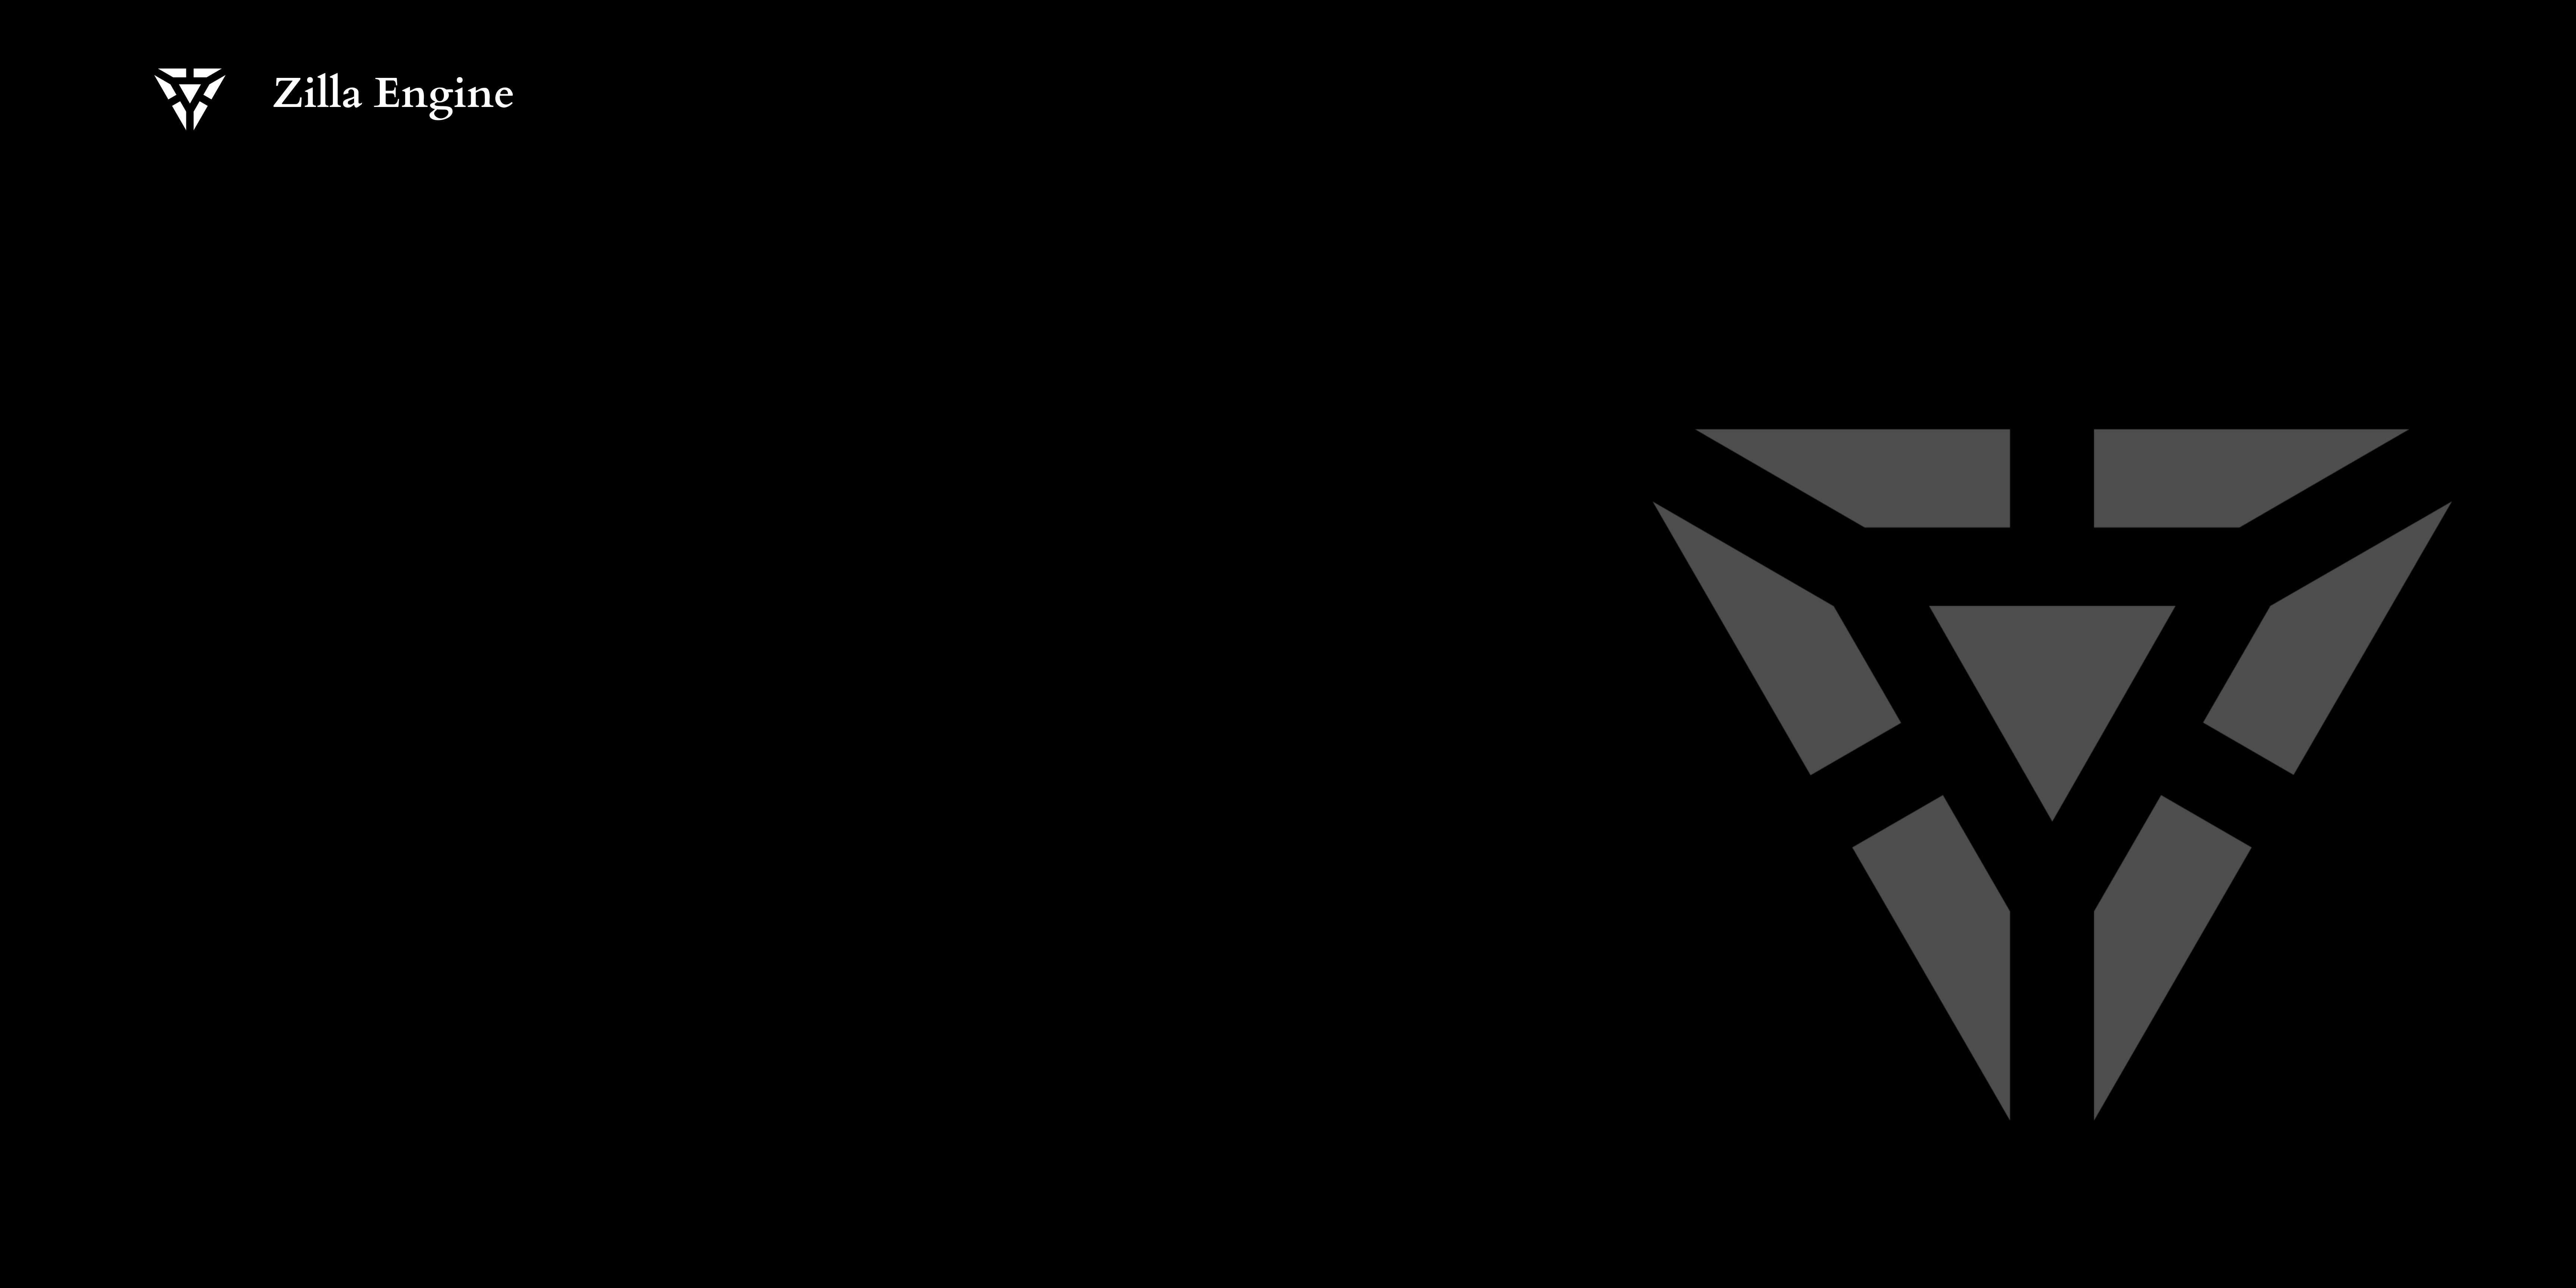
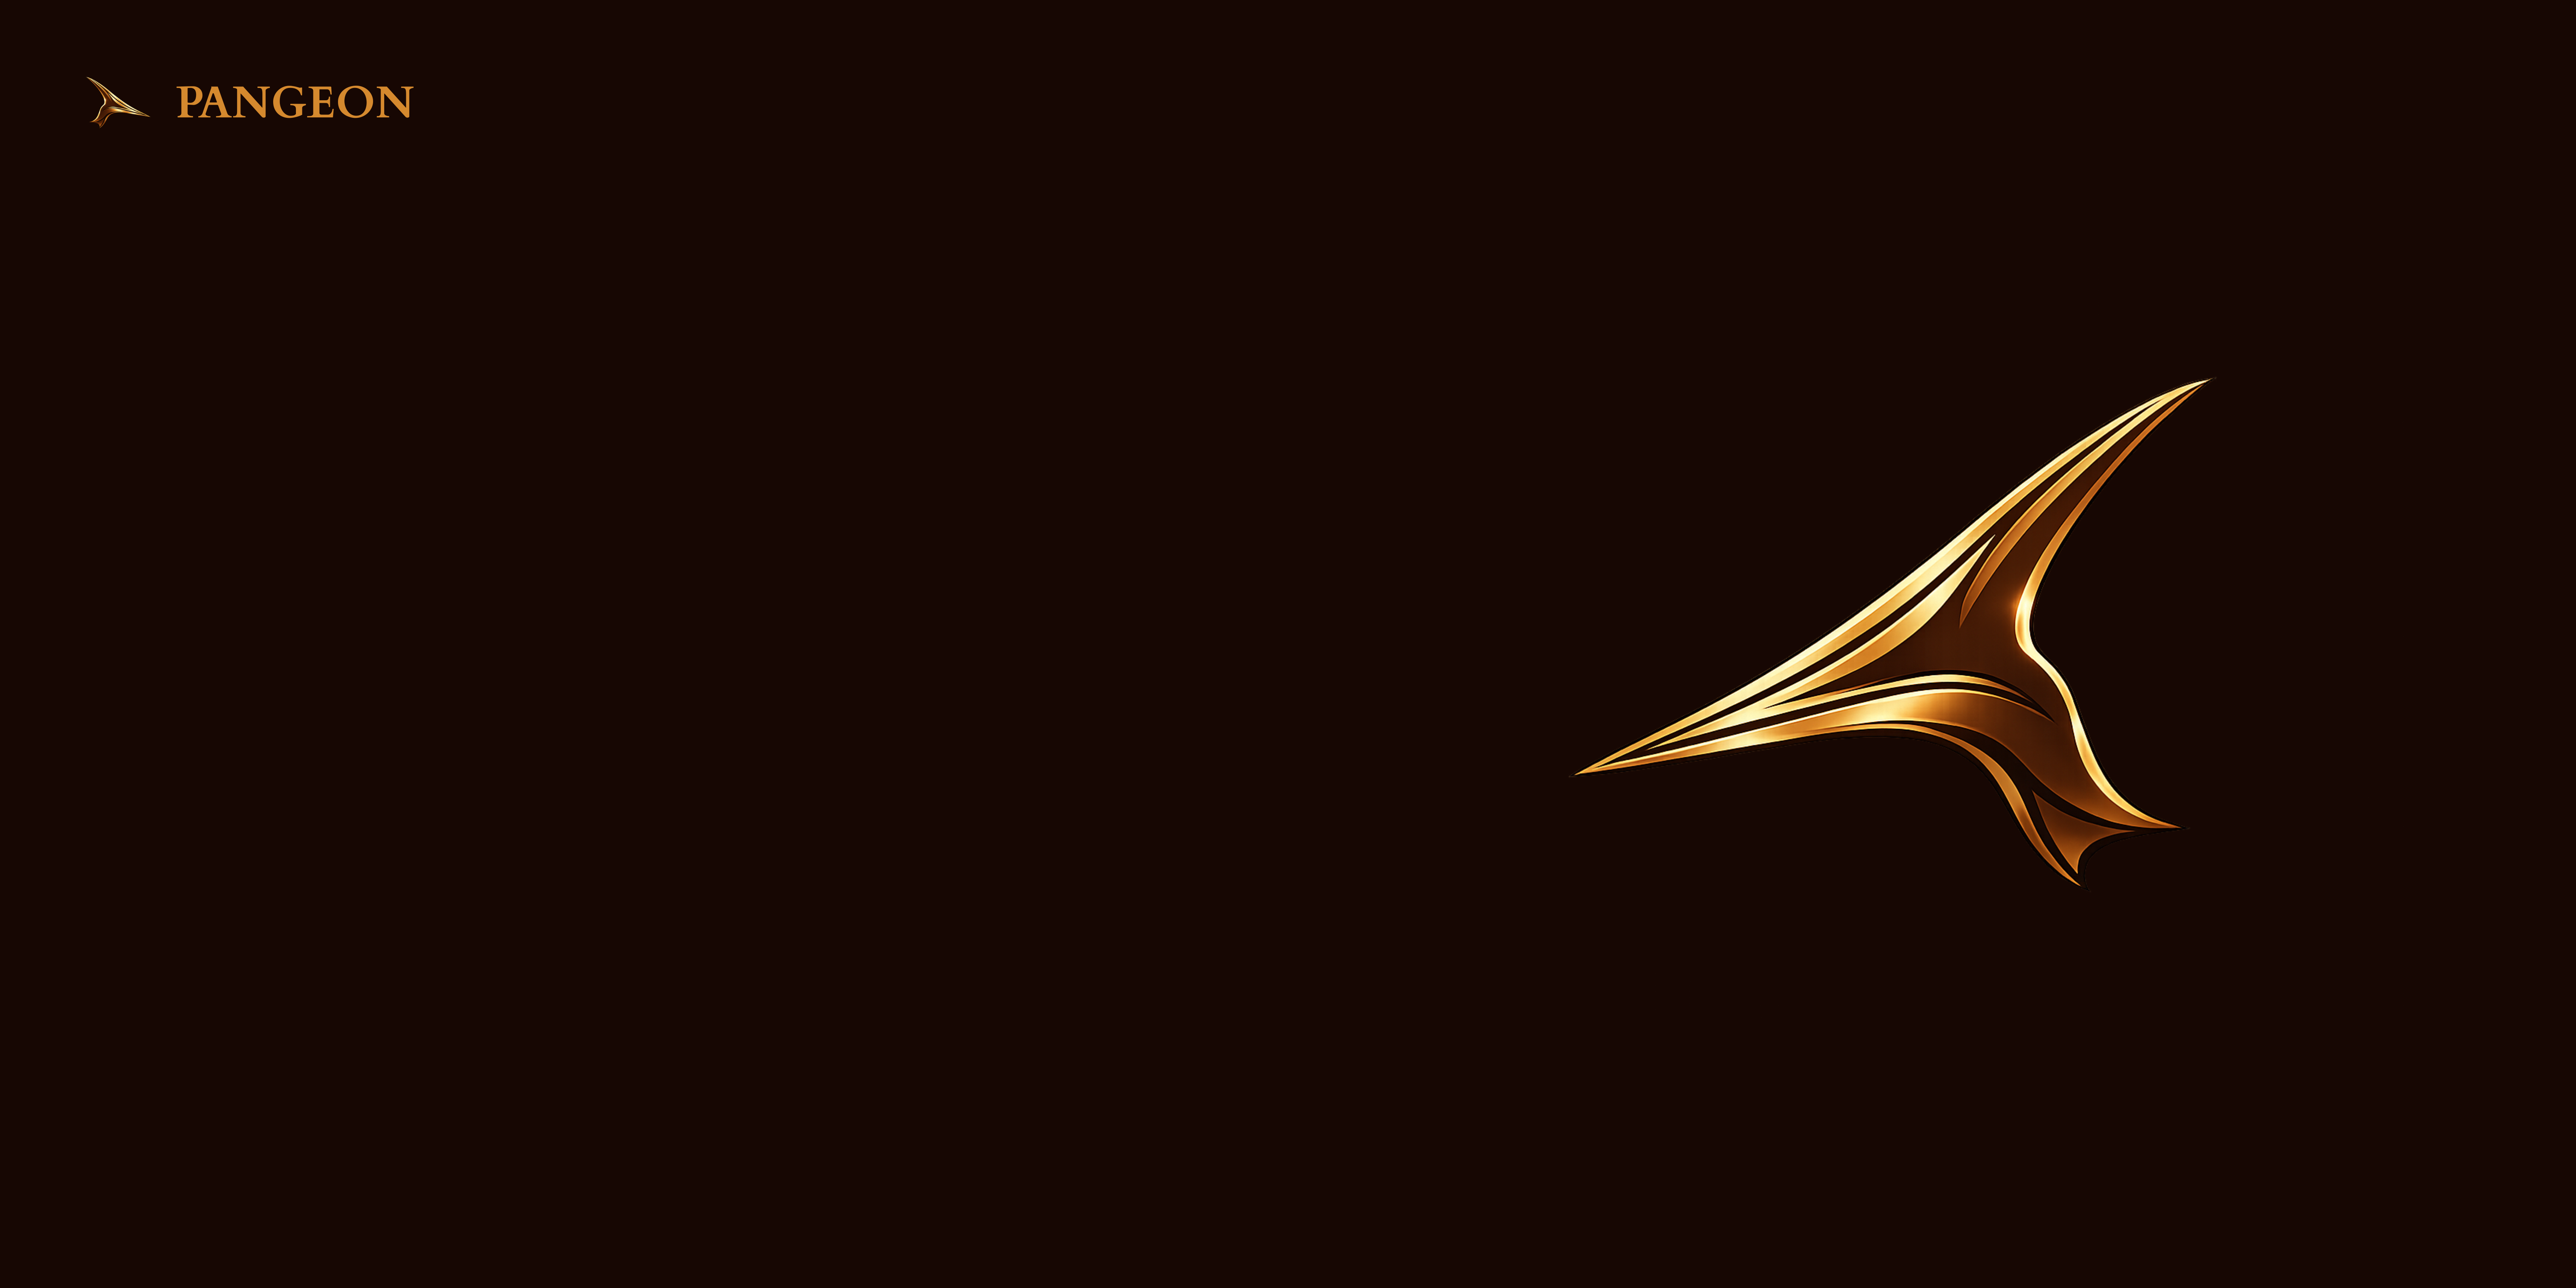
update

Changed region(s): [[0.625, 0.2812, 0.9688, 0.875], [0.0312, 0.0312, 0.1875, 0.0938]]

diff --git a/app/page.jsx b/app/page.jsx
@@ -13,6 +13,11 @@ const TRADE_IMAGES = [
   { file: "hypetrade.jpg", token: "HYPE" },
 ];
 
+const STARS = Array.from({ length: 50 }, (_, i) => ({
+  id: i, top: `${(i * 37 + 11) % 100}%`, left: `${(i * 53 + 7) % 100}%`,
+  size: i % 4 === 0 ? 2 : 1, opacity: ((i * 17 + 3) % 6) * 0.04 + 0.04,
+}));
+
 function TradeCarousel() {
   const [current, setCurrent] = useState(0);
   const [isPaused, setIsPaused] = useState(false);
@@ -55,11 +60,11 @@ function TradeCarousel() {
         {TRADE_IMAGES.map((t, i) => {
           const style = getStyle(i);
           return (
-            <div key={i} onClick={() => setCurrent(i)} style={{ position: "absolute", left: "50%", top: 0, width: cardW, height: cardH, marginLeft: -cardW/2, borderRadius: 16, overflow: "hidden", border: i === current ? "1px solid rgba(255,255,255,0.3)" : "1px solid rgba(255,255,255,0.07)", cursor: i === current ? "default" : "pointer", transition: "all 0.5s cubic-bezier(0.25, 0.46, 0.45, 0.94)", boxShadow: i === current ? "0 24px 80px rgba(0,0,0,0.8)" : "none", ...style }}>
+            <div key={i} onClick={() => setCurrent(i)} style={{ position: "absolute", left: "50%", top: 0, width: cardW, height: cardH, marginLeft: -cardW/2, borderRadius: 16, overflow: "hidden", border: i === current ? "1px solid rgba(255,255,255,0.25)" : "1px solid rgba(255,255,255,0.07)", cursor: i === current ? "default" : "pointer", transition: "all 0.5s cubic-bezier(0.25, 0.46, 0.45, 0.94)", boxShadow: i === current ? "0 24px 80px rgba(0,0,0,0.8)" : "none", ...style }}>
               <img src={`/${t.file}`} alt={t.token} style={{ width: "100%", height: "100%", objectFit: "cover", display: "block" }} />
               {i === current && (
                 <div style={{ position: "absolute", bottom: 0, left: 0, right: 0, padding: "12px 16px", background: "linear-gradient(transparent, rgba(0,0,0,0.85))", display: "flex", alignItems: "center", justifyContent: "space-between" }}>
-                  <span style={{ fontFamily: "'JetBrains Mono', monospace", fontSize: isMobile ? 12 : 14, fontWeight: 600, color: "#fff" }}>{t.token}</span>
+                  <span style={{ fontFamily: "'Space Mono', monospace", fontSize: isMobile ? 12 : 14, fontWeight: 600, color: "#fff" }}>{t.token}</span>
                   <span style={{ fontSize: 10, color: "rgba(255,255,255,0.4)", letterSpacing: "1px" }}>LIVE TRADE</span>
                 </div>
               )}
@@ -67,8 +72,8 @@ function TradeCarousel() {
           );
         })}
       </div>
-      <button onClick={prev} style={{ position: "absolute", left: 8, top: "50%", transform: "translateY(-50%)", width: 36, height: 36, borderRadius: "50%", border: "1px solid rgba(255,255,255,0.15)", background: "rgba(0,0,0,0.6)", color: "#fff", fontSize: 14, cursor: "pointer", zIndex: 20, display: "flex", alignItems: "center", justifyContent: "center", backdropFilter: "blur(10px)" }}>←</button>
-      <button onClick={next} style={{ position: "absolute", right: 8, top: "50%", transform: "translateY(-50%)", width: 36, height: 36, borderRadius: "50%", border: "1px solid rgba(255,255,255,0.15)", background: "rgba(0,0,0,0.6)", color: "#fff", fontSize: 14, cursor: "pointer", zIndex: 20, display: "flex", alignItems: "center", justifyContent: "center", backdropFilter: "blur(10px)" }}>→</button>
+      <button onClick={prev} style={{ position: "absolute", left: 8, top: "50%", transform: "translateY(-50%)", width: 36, height: 36, borderRadius: "50%", border: "1px solid rgba(255,255,255,0.12)", background: "rgba(0,0,0,0.6)", color: "#fff", fontSize: 14, cursor: "pointer", zIndex: 20, display: "flex", alignItems: "center", justifyContent: "center", backdropFilter: "blur(10px)" }}>←</button>
+      <button onClick={next} style={{ position: "absolute", right: 8, top: "50%", transform: "translateY(-50%)", width: 36, height: 36, borderRadius: "50%", border: "1px solid rgba(255,255,255,0.12)", background: "rgba(0,0,0,0.6)", color: "#fff", fontSize: 14, cursor: "pointer", zIndex: 20, display: "flex", alignItems: "center", justifyContent: "center", backdropFilter: "blur(10px)" }}>→</button>
       <div style={{ position: "absolute", bottom: -20, left: "50%", transform: "translateX(-50%)", display: "flex", gap: 6 }}>
         {TRADE_IMAGES.map((_, i) => (
           <div key={i} onClick={() => setCurrent(i)} style={{ width: i === current ? 16 : 5, height: 5, borderRadius: 3, background: i === current ? "#fff" : "rgba(255,255,255,0.2)", cursor: "pointer", transition: "all 0.3s" }} />
@@ -91,38 +96,34 @@ function PerfCard({ token, templateImg, logo, avgEntry, deployed, currentPrice }
         <div style={{ position: "absolute", top: "28%", left: "7%" }}>
           <div style={{ display: "flex", alignItems: "center", gap: 10, marginBottom: 6 }}>
             <img src={logo} width={28} height={28} style={{ borderRadius: "50%" }} alt={token} />
-            <div style={{ fontFamily: "'Bebas Neue', sans-serif", fontSize: "clamp(13px, 2vw, 17px)", color: "#fff", letterSpacing: 1, lineHeight: 1 }}>
+            <div style={{ fontFamily: "'Space Mono', monospace", fontSize: "clamp(11px, 1.8vw, 15px)", color: "#fff", letterSpacing: 1, lineHeight: 1 }}>
               {amount.toFixed(3)} <span style={{ opacity: 0.6 }}>${token}</span> accumulated
             </div>
           </div>
         </div>
         <div style={{ position: "absolute", top: "45%", left: "7%" }}>
-          <div style={{ fontFamily: "'Bebas Neue', sans-serif", fontSize: "clamp(28px, 5vw, 48px)", color: isPos ? "#4ade80" : "#f87171", letterSpacing: 1, lineHeight: 1 }}>
+          <div style={{ fontFamily: "'Cinzel', serif", fontSize: "clamp(28px, 5vw, 48px)", color: isPos ? "#4ade80" : "#f87171", letterSpacing: 1, lineHeight: 1 }}>
             {isPos ? "+" : ""}{pnlPct.toFixed(1)}%
           </div>
         </div>
         <div style={{ position: "absolute", bottom: "12%", left: "7%", display: "flex", gap: "clamp(16px, 4vw, 40px)" }}>
-          <div>
-            <div style={{ fontSize: "clamp(9px, 1.5vw, 11px)", color: "rgba(255,255,255,0.4)", textTransform: "uppercase", letterSpacing: "0.5px", marginBottom: 4 }}>Avg Entry</div>
-            <div style={{ fontFamily: "'JetBrains Mono', monospace", fontSize: "clamp(12px, 2vw, 16px)", fontWeight: 600, color: "#fff" }}>${avgEntry.toLocaleString()}</div>
-          </div>
-          <div>
-            <div style={{ fontSize: "clamp(9px, 1.5vw, 11px)", color: "rgba(255,255,255,0.4)", textTransform: "uppercase", letterSpacing: "0.5px", marginBottom: 4 }}>Current</div>
-            <div style={{ fontFamily: "'JetBrains Mono', monospace", fontSize: "clamp(12px, 2vw, 16px)", fontWeight: 600, color: "#fff" }}>${currentPrice?.toLocaleString() || "—"}</div>
-          </div>
-          <div>
-            <div style={{ fontSize: "clamp(9px, 1.5vw, 11px)", color: "rgba(255,255,255,0.4)", textTransform: "uppercase", letterSpacing: "0.5px", marginBottom: 4 }}>PnL</div>
-            <div style={{ fontFamily: "'JetBrains Mono', monospace", fontSize: "clamp(12px, 2vw, 16px)", fontWeight: 600, color: isPos ? "#4ade80" : "#f87171" }}>
-              {isPos ? "+" : ""}${pnlUsd.toFixed(0)}
+          {[
+            { label: "Avg Entry", val: `$${avgEntry.toLocaleString()}` },
+            { label: "Current",   val: `$${currentPrice?.toLocaleString() || "—"}` },
+            { label: "PnL",       val: `${isPos ? "+" : ""}$${pnlUsd.toFixed(0)}`, color: isPos ? "#4ade80" : "#f87171" },
+          ].map((s, i) => (
+            <div key={i}>
+              <div style={{ fontSize: "clamp(9px, 1.5vw, 11px)", color: "rgba(255,255,255,0.4)", textTransform: "uppercase", letterSpacing: "0.5px", marginBottom: 4 }}>{s.label}</div>
+              <div style={{ fontFamily: "'Space Mono', monospace", fontSize: "clamp(12px, 2vw, 16px)", fontWeight: 600, color: s.color || "#fff" }}>{s.val}</div>
             </div>
-          </div>
+          ))}
         </div>
       </div>
     </div>
   );
 }
 
-export default function LandingPage() {
+export default function DjuneFrostPage() {
   const [solPrice, setSolPrice] = useState(null);
   const [hypePrice, setHypePrice] = useState(null);
   const [btcPrice, setBtcPrice] = useState(null);
@@ -151,71 +152,81 @@ export default function LandingPage() {
   return (
     <>
       <style>{`
-        @import url('https://fonts.googleapis.com/css2?family=Bebas+Neue&family=DM+Sans:wght@300;400;500;600&family=JetBrains+Mono:wght@400;600&display=swap');
+        @import url('https://fonts.googleapis.com/css2?family=Cinzel:wght@400;600;700;900&family=DM+Sans:wght@300;400;500;600&family=Space+Mono:wght@400;700&display=swap');
         *, *::before, *::after { box-sizing: border-box; margin: 0; padding: 0; }
-        body { background: #080808; color: #fff; font-family: 'DM Sans', sans-serif; overflow-x: hidden; }
-        ::-webkit-scrollbar { width: 4px; } ::-webkit-scrollbar-track { background: #080808; } ::-webkit-scrollbar-thumb { background: #222; }
-        .ze-nav { position: fixed; top: 0; left: 0; right: 0; z-index: 100; display: flex; align-items: center; justify-content: space-between; padding: 0 48px; height: 64px; background: rgba(8,8,8,0.9); backdrop-filter: blur(20px); border-bottom: 1px solid rgba(255,255,255,0.06); }
-        .ze-logo { font-family: 'Bebas Neue', sans-serif; font-size: 22px; letter-spacing: 3px; color: #fff; text-decoration: none; }
-        .ze-logo span { color: rgba(255,255,255,0.35); }
+        body { background: #181510; color: #fff; font-family: 'DM Sans', sans-serif; overflow-x: hidden; }
+        ::-webkit-scrollbar { width: 4px; }
+        ::-webkit-scrollbar-track { background: #181510; }
+        ::-webkit-scrollbar-thumb { background: rgba(255,255,255,0.15); border-radius: 2px; }
+
+        .nav { position: fixed; top: 0; left: 0; right: 0; z-index: 100; display: flex; align-items: center; justify-content: space-between; padding: 0 48px; height: 64px; background: rgba(24,21,16,0.92); backdrop-filter: blur(24px); border-bottom: 1px solid rgba(255,255,255,0.06); }
+        .nav-logo { font-family: 'Cinzel', serif; font-size: 18px; font-weight: 700; color: #fff; text-decoration: none; letter-spacing: 2px; }
+        .nav-logo span { color: rgba(255,255,255,0.3); }
+
         .hero { min-height: 100vh; display: flex; flex-direction: column; align-items: center; justify-content: center; padding: 120px 24px 80px; text-align: center; position: relative; overflow: hidden; }
-        .hero-grid { position: absolute; inset: 0; background-image: linear-gradient(rgba(255,255,255,0.025) 1px, transparent 1px), linear-gradient(90deg, rgba(255,255,255,0.025) 1px, transparent 1px); background-size: 60px 60px; mask-image: radial-gradient(ellipse 80% 80% at 50% 50%, black 40%, transparent 100%); }
-        .hero-badge { display: inline-flex; align-items: center; gap: 8px; padding: 6px 14px; border-radius: 20px; border: 1px solid rgba(255,255,255,0.12); background: rgba(255,255,255,0.04); font-size: 12px; color: rgba(255,255,255,0.5); letter-spacing: 0.5px; margin-bottom: 32px; }
-        .hero-badge-dot { width: 6px; height: 6px; border-radius: 50%; background: #fff; animation: blink 2s infinite; }
-        @keyframes blink { 0%,100%{opacity:1} 50%{opacity:0.2} }
-        .hero-title { font-family: 'Bebas Neue', sans-serif; font-size: clamp(72px, 12vw, 160px); line-height: 0.9; letter-spacing: -2px; margin-bottom: 28px; }
-        .hero-title .outline { -webkit-text-stroke: 1.5px rgba(255,255,255,0.7); color: transparent; }
-        .hero-sub { font-size: clamp(15px, 2vw, 18px); color: rgba(255,255,255,0.4); max-width: 520px; line-height: 1.7; margin-bottom: 48px; font-weight: 400; }
-        .ticker { display: flex; gap: 16px; justify-content: center; flex-wrap: wrap; }
-        .ticker-item { display: flex; align-items: center; gap: 10px; padding: 10px 18px; border-radius: 10px; border: 1px solid rgba(255,255,255,0.07); background: rgba(255,255,255,0.03); }
-        .ticker-sym { font-family: 'JetBrains Mono', monospace; font-size: 13px; font-weight: 600; color: #fff; }
-        .ticker-price { font-family: 'JetBrains Mono', monospace; font-size: 13px; color: rgba(255,255,255,0.5); }
+        .hero-grid { position: absolute; inset: 0; background-image: linear-gradient(rgba(255,255,255,0.02) 1px, transparent 1px), linear-gradient(90deg, rgba(255,255,255,0.02) 1px, transparent 1px); background-size: 60px 60px; mask-image: radial-gradient(ellipse 80% 80% at 50% 50%, black 40%, transparent 100%); }
+
+        .hero-badge { display: inline-flex; align-items: center; gap: 8px; padding: 6px 14px; border-radius: 20px; border: 1px solid rgba(255,255,255,0.1); background: rgba(255,255,255,0.04); font-size: 12px; color: rgba(255,255,255,0.45); letter-spacing: 0.5px; margin-bottom: 32px; font-family: 'Space Mono', monospace; text-transform: uppercase; }
+        .hero-badge-dot { width: 6px; height: 6px; border-radius: 50%; background: #14F195; box-shadow: 0 0 8px #14F195; animation: blink 2s infinite; }
+        @keyframes blink { 0%,100%{opacity:1} 50%{opacity:0.3} }
+
+        .hero-title { font-family: 'Cinzel', serif; font-size: clamp(60px, 10vw, 130px); line-height: 0.95; letter-spacing: -2px; margin-bottom: 28px; font-weight: 900; }
+        .hero-title .outline { -webkit-text-stroke: 1.5px rgba(255,255,255,0.25); color: transparent; }
+
+        .hero-sub { font-size: clamp(15px, 2vw, 18px); color: rgba(255,255,255,0.35); max-width: 520px; line-height: 1.7; margin-bottom: 48px; font-weight: 300; }
+
+        .ticker { display: flex; gap: 10px; justify-content: center; flex-wrap: wrap; }
+        .ticker-item { display: flex; align-items: center; gap: 10px; padding: 9px 16px; border-radius: 10px; border: 1px solid rgba(255,255,255,0.07); background: rgba(255,255,255,0.03); }
+        .ticker-sym { font-family: 'Space Mono', monospace; font-size: 12px; font-weight: 700; color: #fff; }
+        .ticker-price { font-family: 'Space Mono', monospace; font-size: 12px; color: rgba(255,255,255,0.45); }
         .ticker-change { font-size: 11px; font-weight: 600; padding: 2px 7px; border-radius: 6px; }
-        .ticker-change.up { background: rgba(255,255,255,0.08); color: #fff; }
-        .ticker-change.down { background: rgba(255,255,255,0.04); color: rgba(255,255,255,0.4); }
-        .perf-section { padding: 100px 48px 60px; max-width: 1400px; margin: 0 auto; }
-        .perf-cards { display: flex; gap: 20px; }
-        .bot-section { padding: 80px 48px; max-width: 1200px; margin: 0 auto; }
+        .ticker-change.up { background: rgba(74,222,128,0.1); color: #4ade80; }
+        .ticker-change.down { background: rgba(248,113,113,0.1); color: #f87171; }
+
+        .section { padding: 100px 48px; max-width: 1400px; margin: 0 auto; }
+        .section-label { font-family: 'Space Mono', monospace; font-size: 10px; color: rgba(255,255,255,0.22); letter-spacing: 3px; text-transform: uppercase; margin-bottom: 16px; }
+        .section-title { font-family: 'Cinzel', serif; font-size: clamp(40px, 5vw, 72px); letter-spacing: 1px; line-height: 1; margin-bottom: 16px; font-weight: 700; }
+
+        .perf-cards { display: flex; gap: 20px; margin-top: 48px; }
+
         .bot-header { text-align: center; margin-bottom: 72px; }
-        .bot-label { font-size: 11px; color: rgba(255,255,255,0.25); letter-spacing: 3px; text-transform: uppercase; margin-bottom: 16px; }
-        .bot-title { font-family: 'Bebas Neue', sans-serif; font-size: clamp(48px, 6vw, 80px); letter-spacing: 1px; line-height: 1; margin-bottom: 20px; }
-        .bot-badge { display: inline-flex; align-items: center; gap: 8px; padding: 8px 20px; border-radius: 20px; border: 1px solid rgba(255,165,0,0.3); background: rgba(255,165,0,0.06); color: rgba(255,165,0,0.8); font-size: 13px; font-weight: 600; margin-bottom: 20px; }
-        .bot-desc { font-size: 15px; color: rgba(255,255,255,0.35); max-width: 520px; margin: 0 auto; line-height: 1.7; }
-        .coming-soon-banner { margin-top: 72px; padding: 32px; border: 1px dashed rgba(255,165,0,0.2); border-radius: 16px; text-align: center; background: rgba(255,165,0,0.02); }
-        .coming-soon-title { font-family: 'Bebas Neue', sans-serif; font-size: 36px; letter-spacing: 2px; color: rgba(255,165,0,0.7); margin-bottom: 8px; }
-        .coming-soon-desc { font-size: 14px; color: rgba(255,255,255,0.25); }
+        .coming-soon-banner { margin-top: 72px; padding: 32px; border: 1px dashed rgba(255,255,255,0.1); border-radius: 16px; text-align: center; background: rgba(255,255,255,0.02); }
+        .coming-soon-title { font-family: 'Cinzel', serif; font-size: 32px; letter-spacing: 2px; color: rgba(255,255,255,0.4); margin-bottom: 8px; font-weight: 700; }
+        .coming-soon-desc { font-size: 14px; color: rgba(255,255,255,0.22); font-weight: 300; }
+
         .footer { border-top: 1px solid rgba(255,255,255,0.06); padding: 32px 48px; display: flex; align-items: center; justify-content: space-between; }
-        .footer-logo { font-family: 'Bebas Neue', sans-serif; font-size: 18px; letter-spacing: 3px; color: rgba(255,255,255,0.4); }
-        .footer-copy { font-size: 12px; color: rgba(255,255,255,0.2); }
-        .footer-link { font-size: 12px; color: rgba(255,255,255,0.3); text-decoration: none; }
-        .footer-link:hover { color: #fff; }
+
         @media(max-width:768px){
-          .ze-nav { padding: 0 16px; }
+          .nav { padding: 0 16px; }
           .hero { padding: 100px 16px 60px; }
-          .perf-section { padding: 60px 16px; }
+          .section { padding: 60px 16px; }
           .perf-cards { flex-direction: column; }
-          .bot-section { padding: 60px 16px 80px; }
           .footer { flex-direction: column; gap: 16px; text-align: center; padding: 24px 16px; }
         }
       `}</style>
 
+      {/* BG */}
+      <div style={{ position: "fixed", inset: 0, zIndex: 0, background: "#181510", pointerEvents: "none" }}>
+        {STARS.map(s => <div key={s.id} style={{ position: "absolute", width: s.size, height: s.size, background: "#fff", borderRadius: "50%", top: s.top, left: s.left, opacity: s.opacity }} />)}
+      </div>
+
       {/* NAV */}
-      <nav className="ze-nav">
-        <a href="/" className="ze-logo">ZILLA <span>ENGINE</span></a>
-        <div style={{ display: "flex", alignItems: "center", gap: 6, padding: "8px 16px", borderRadius: 12, color: "rgba(255,255,255,0.25)", fontSize: 13, fontWeight: 500, border: "1px solid rgba(255,255,255,0.06)", background: "rgba(255,255,255,0.02)" }}>
-          🔒 Zilla Engine
-        </div>
-        <a href="https://pangeon.xyz" target="_blank" rel="noreferrer" style={{ padding: "8px 20px", borderRadius: 8, background: "#fff", color: "#080808", fontSize: 13, fontWeight: 700, textDecoration: "none" }}>
-          Launch App ↗
+      <nav className="nav" style={{ position: "fixed", zIndex: 100 }}>
+        <a href="/" className="nav-logo">DJUNE <span>FROST</span></a>
+        <a href="https://pangeon.xyz" target="_blank" rel="noreferrer" style={{ padding: "8px 20px", borderRadius: 10, background: "rgba(255,255,255,0.08)", border: "1px solid rgba(255,255,255,0.15)", color: "#fff", fontSize: 13, fontWeight: 700, textDecoration: "none", fontFamily: "'Cinzel', serif", letterSpacing: "0.5px" }}>
+          Launch Pangeon ↗
         </a>
       </nav>
 
       {/* HERO */}
-      <section className="hero">
+      <section className="hero" style={{ position: "relative", zIndex: 1 }}>
         <div className="hero-grid" />
-        <div className="hero-badge"><span className="hero-badge-dot" />Structure-based DCA — Now in Beta</div>
-        <h1 className="hero-title"><div>ZILLA</div><div className="outline">ENGINE</div></h1>
-        <p className="hero-sub">Zone-based accumulation bot for Solana and HyperLiquid tokens. Buy the dips systematically. Protect your capital. Let the market come to you.</p>
+        <div className="hero-badge"><span className="hero-badge-dot" />Trader · Builder · CEO of Pangeon</div>
+        <h1 className="hero-title">
+          <div>DJUNE</div>
+          <div className="outline">FROST</div>
+        </h1>
+        <p className="hero-sub">Trader, bot builder and CEO of Pangeon DEX. Zone-based DCA accumulation, automated strategies and on-chain tools — built in public.</p>
         <div className="ticker">
           {solPrice && (
             <div className="ticker-item">
@@ -239,22 +250,18 @@ export default function LandingPage() {
             </div>
           )}
           <div className="ticker-item">
-            <span className="ticker-sym" style={{ color: "rgba(255,255,255,0.4)" }}>MORE</span>
-            <span className="ticker-price">COMING SOON</span>
+            <span className="ticker-sym" style={{ color: "rgba(255,255,255,0.3)" }}>MORE</span>
+            <span className="ticker-price">SOON</span>
           </div>
-        </div>
-        <div style={{ marginTop: 48, padding: "20px 40px", border: "1px dashed rgba(255,255,255,0.12)", borderRadius: 14, textAlign: "center" }}>
-          <div style={{ fontSize: 12, color: "rgba(255,255,255,0.25)", letterSpacing: "2px", textTransform: "uppercase", marginBottom: 8 }}>More info coming soon</div>
-          <div style={{ fontSize: 13, color: "rgba(255,255,255,0.15)" }}>Performance results, strategy details and full launch incoming.</div>
         </div>
       </section>
 
       {/* PERF CARDS */}
-      <section className="perf-section">
+      <section className="section" style={{ position: "relative", zIndex: 1, paddingTop: 10 }}>
         <div style={{ textAlign: "center", marginBottom: 48 }}>
-          <div style={{ fontSize: 11, color: "rgba(255,255,255,0.25)", letterSpacing: 3, textTransform: "uppercase", marginBottom: 12 }}>Live Performance</div>
-          <div style={{ fontFamily: "'Bebas Neue', sans-serif", fontSize: "clamp(40px, 5vw, 64px)", letterSpacing: 1, lineHeight: 1, marginBottom: 12 }}>DCA BOT RESULTS</div>
-          <div style={{ fontSize: 14, color: "rgba(255,255,255,0.3)", maxWidth: 480, margin: "0 auto" }}>Real accumulation from our zone-based DCA bot. Prices update live.</div>
+          <div className="section-label">Live Performance</div>
+          <div className="section-title">DCA BOT RESULTS</div>
+          <div style={{ fontSize: 14, color: "rgba(255,255,255,0.28)", maxWidth: 480, margin: "0 auto", fontWeight: 300 }}>Real accumulation from our zone-based DCA bot. Prices update live.</div>
         </div>
         <div className="perf-cards">
           <PerfCard token="SOL" templateImg="dcasolana.png" logo="https://assets.coingecko.com/coins/images/4128/small/solana.png" avgEntry={81} deployed={450} currentPrice={solPrice?.price} />
@@ -263,13 +270,17 @@ export default function LandingPage() {
         </div>
       </section>
 
-      {/* TRADING BOT SECTION */}
-      <section className="bot-section">
+      {/* TRADING BOT */}
+      <section className="section" style={{ position: "relative", zIndex: 1 }}>
         <div className="bot-header">
-          <div className="bot-label">Trading Bot</div>
-          <h2 className="bot-title">REAL TRADES.<br />REAL RESULTS.</h2>
-          <div className="bot-badge">⏳ Coming End of Year 2026</div>
-          <p className="bot-desc">Our advanced trading bot is currently in development. A preview of the kind of trades it will execute — precision entries, structured exits, maximum efficiency.</p>
+          <div className="section-label">Trading Bot</div>
+          <div className="section-title">REAL TRADES.<br />REAL RESULTS.</div>
+          <div style={{ display: "inline-flex", alignItems: "center", gap: 8, padding: "7px 18px", borderRadius: 20, border: "1px solid rgba(255,255,255,0.1)", background: "rgba(255,255,255,0.04)", color: "rgba(255,255,255,0.4)", fontSize: 12, fontFamily: "'Space Mono', monospace", marginBottom: 16 }}>
+            ⏳ Coming End of Year 2026
+          </div>
+          <p style={{ fontSize: 15, color: "rgba(255,255,255,0.3)", maxWidth: 520, margin: "0 auto", lineHeight: 1.7, fontWeight: 300 }}>
+            Our advanced trading bot is currently in development. A preview of the kind of trades it will execute — precision entries, structured exits, maximum efficiency.
+          </p>
         </div>
         <TradeCarousel />
         <div className="coming-soon-banner">
@@ -279,16 +290,17 @@ export default function LandingPage() {
       </section>
 
       {/* BUILT BY */}
-      <section style={{ padding: "60px 48px", textAlign: "center", borderTop: "1px solid rgba(255,255,255,0.06)" }}>
-        <img src="/armedcat.png" alt="Builder" style={{ width: 80, height: 80, borderRadius: "50%", objectFit: "cover", border: "2px solid rgba(255,255,255,0.15)", display: "block", margin: "0 auto 16px" }} />
-        <div style={{ fontFamily: "'DM Sans', sans-serif", fontSize: 14, color: "rgba(255,255,255,0.3)", letterSpacing: "0.5px" }}>Built by your favorite cat </div>
+      <section style={{ padding: "60px 48px", textAlign: "center", borderTop: "1px solid rgba(255,255,255,0.06)", position: "relative", zIndex: 1 }}>
+        <img src="/armedcat.png" alt="Djune Frost" style={{ width: 80, height: 80, borderRadius: "50%", objectFit: "cover", border: "1px solid rgba(255,255,255,0.12)", display: "block", margin: "0 auto 16px" }} />
+        <div style={{ fontFamily: "'DM Sans', sans-serif", fontSize: 14, color: "rgba(255,255,255,0.25)", letterSpacing: "0.5px" }}>Built by Djune Frost</div>
+        <div style={{ fontFamily: "'Space Mono', monospace", fontSize: 10, color: "rgba(255,255,255,0.15)", marginTop: 6, letterSpacing: 1 }}>CEO of Pangeon · Builder · Trader</div>
       </section>
 
       {/* FOOTER */}
-      <footer className="footer">
-        <div className="footer-logo">ZILLA ENGINE</div>
-        <div className="footer-copy">© 2026 Zilla Engine. Powered by Pangeon DEX.</div>
-        <a href="https://pangeon.xyz" className="footer-link">Pangeon DEX</a>
+      <footer className="footer" style={{ position: "relative", zIndex: 1 }}>
+        <div style={{ fontFamily: "'Cinzel', serif", fontSize: 16, fontWeight: 700, color: "rgba(255,255,255,0.4)", letterSpacing: 2 }}>DJUNE FROST</div>
+        <div style={{ fontSize: 12, color: "rgba(255,255,255,0.18)", fontFamily: "'Space Mono', monospace" }}>© 2026 · Powered by Pangeon DEX</div>
+        <a href="https://pangeon.xyz" style={{ fontSize: 12, color: "rgba(255,255,255,0.25)", textDecoration: "none", fontFamily: "'DM Sans', sans-serif" }}>Pangeon DEX ↗</a>
       </footer>
     </>
   );